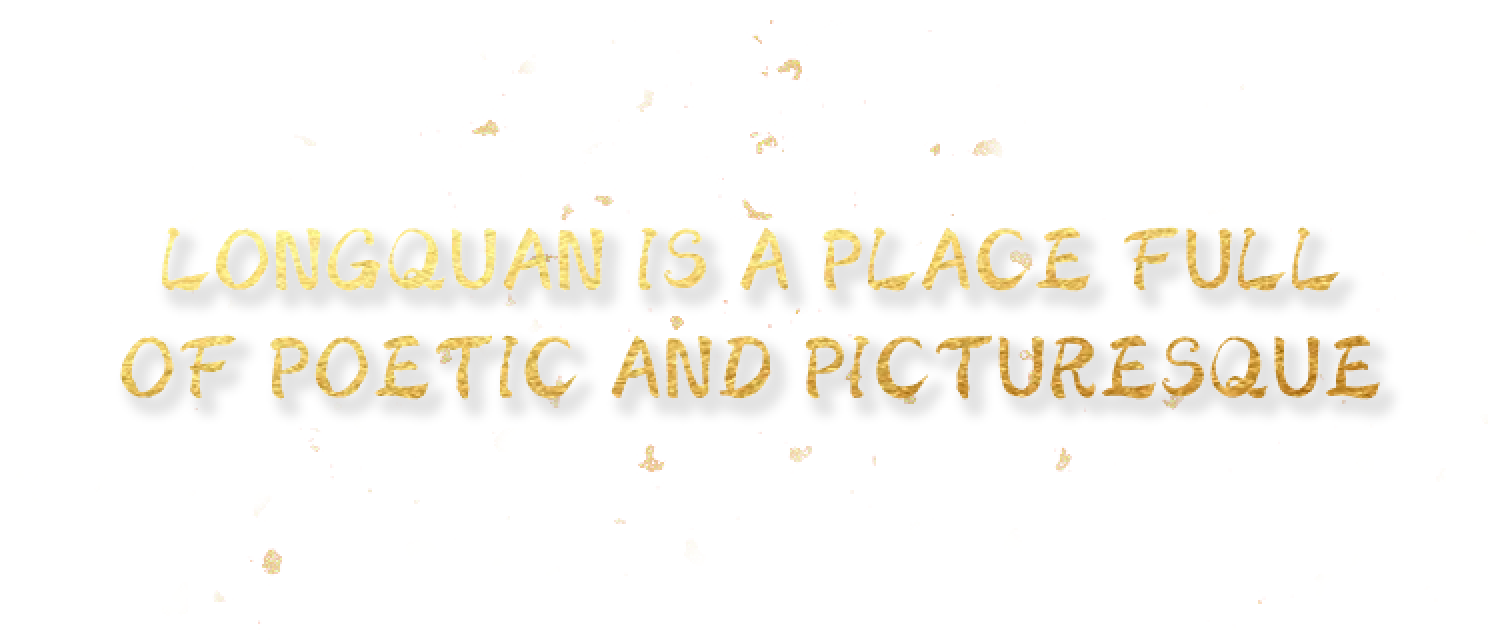
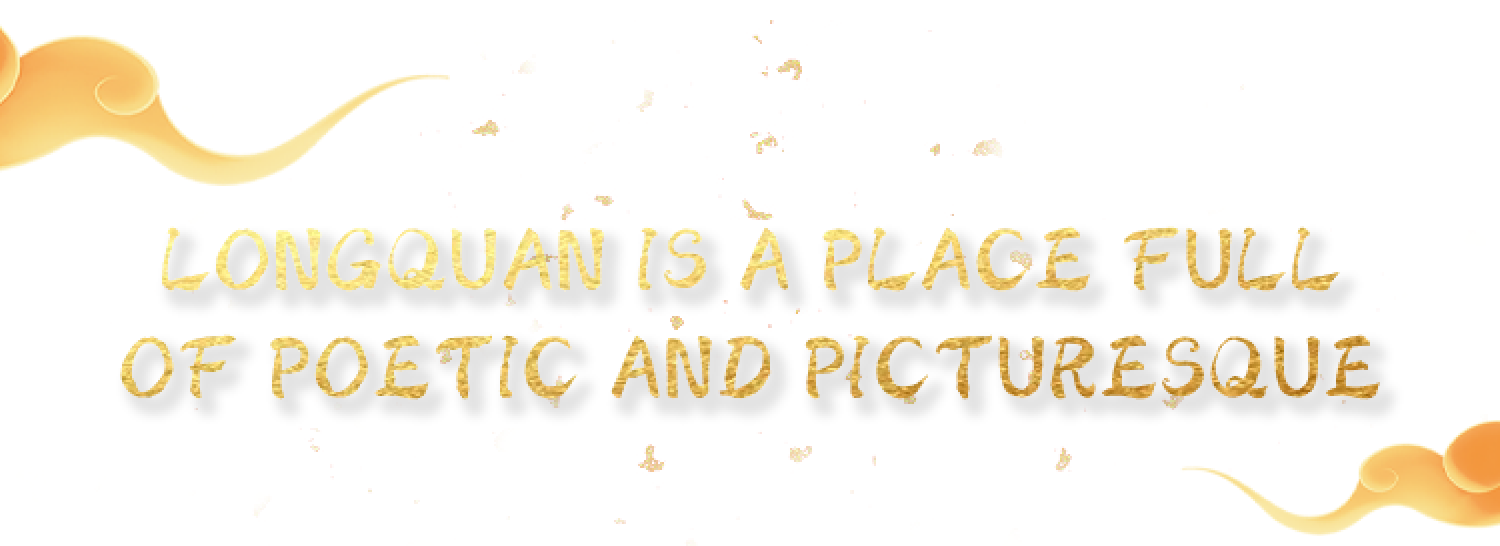
update video

diff --git a/pages/start.vue b/pages/start.vue
@@ -22,8 +22,13 @@
       </div>
       <buttom @func="start" :text="$t('starttitle')" class="btn_view" />
 
-      <img src="../assets/images/home/1_yun1.png" alt="" class="yun1" />
-      <img src="../assets/images/home/1_yun2.png" alt="" class="yun2" />
+      <!-- <img src="../assets/images/home/1_yun1.png" alt="" class="yun1" />
+      <img
+        src="../assets/images/home/1_yun2.png"
+        alt=""
+        class="yun2"
+        :style="`top: ${$t('yunsize')}`"
+      /> -->
     </div>
   </div>
 </template>
@@ -35,6 +40,11 @@ import "video.js/dist/video-js.min.css";
 import { videoPlayer } from "vue-video-player";
 export default {
   components: { Buttom, videoPlayer },
+  head(app) {
+    return {
+      title: app.$t("des"),
+    };
+  },
   data() {
     return {
       playerOptions: [],
@@ -127,7 +137,6 @@ export default {
 
 .yun2 {
   position: absolute;
-  top: 140px;
   width: 160px;
   right: 0;
 }
@@ -143,6 +152,7 @@ export default {
   left: 30px;
   right: 0px;
   width: 96%;
+  margin-top: 20px;
   padding-bottom: 100px;
   background-size: 100% 100% !important;
   background-repeat: no-repeat !important;

diff --git a/pages/index.vue b/pages/index.vue
@@ -20,8 +20,8 @@
           </div>
         </div>
       </div>
-      <img src="../assets/images/home/1_yun1.png" alt="" class="yun1" />
-      <img src="../assets/images/home/1_yun2.png" alt="" class="yun2" />
+      <!-- <img src="../assets/images/home/1_yun1.png" alt="" class="yun1" />
+      <img src="../assets/images/home/1_yun2.png" alt="" class="yun2" /> -->
       <img src="../assets/images/home/1_yun3.png" alt="" class="yun3" />
     </div>
   </div>
@@ -93,6 +93,7 @@ export default {
 }
 
 .yun3 {
+  bottom: 40%;
   width: 188px;
   position: absolute;
   z-index: 999;
@@ -107,7 +108,6 @@ export default {
   left: 0px;
   right: 0px;
   width: 100%;
-  height: 100%;
   background-size: 92% 100% !important;
   background-repeat: no-repeat !important;
   background-position: center !important;

diff --git a/pages/site.vue b/pages/site.vue
@@ -6,7 +6,7 @@
           <el-image
             :src="items.title"
             lazy
-            style="width: 80%; margin: 60px auto 5px"
+            style="width: 92%; margin: 60px auto 4px"
             fits="cover"
           ></el-image>
           <div class="bg_lu">
@@ -74,6 +74,7 @@
                 <div v-for="url in items.shangxi" :key="url.id">
                   <div class="cover_box_bg">
                     <el-image
+                      style="cursor: pointer"
                       class="elimg"
                       :src="url.img"
                       lazy
@@ -139,6 +140,11 @@ export default {
     };
   },
 
+  head(app) {
+    return {
+      title: app.$t("des"),
+    };
+  },
   created() {
     this.initVideo();
   },

diff --git a/locales/en-US.js b/locales/en-US.js
@@ -1,5 +1,6 @@
 export default {
   lang: "en",
+  yunsize: "100px",
   share: '../video/title/en/share_en.png',
   indeximg: '../images/1_title_en.png',
   startimg: "../images/2_title_en.png",

diff --git a/locales/zh-CN.js b/locales/zh-CN.js
@@ -1,5 +1,6 @@
 export default {
   lang: "cn",
+  yunsize: "88px",
   indeximg: '../images/1_title.png',
   startimg: "../images/2_title.png",
   sitego: "打卡留念",

diff --git a/assets/css/main.css b/assets/css/main.css
@@ -60,7 +60,7 @@ body {
 
 
   body {
-    background: url("") no-repeat;
+    background: transparent;
     width: 750px;
     margin: 0 auto;
     height: 100%;

diff --git a/components/BigImg.vue b/components/BigImg.vue
@@ -43,5 +43,6 @@ export default {
   margin: auto 0;
   max-width: 100%;
   text-align: center;
+  cursor: pointer;
 }
 </style>
